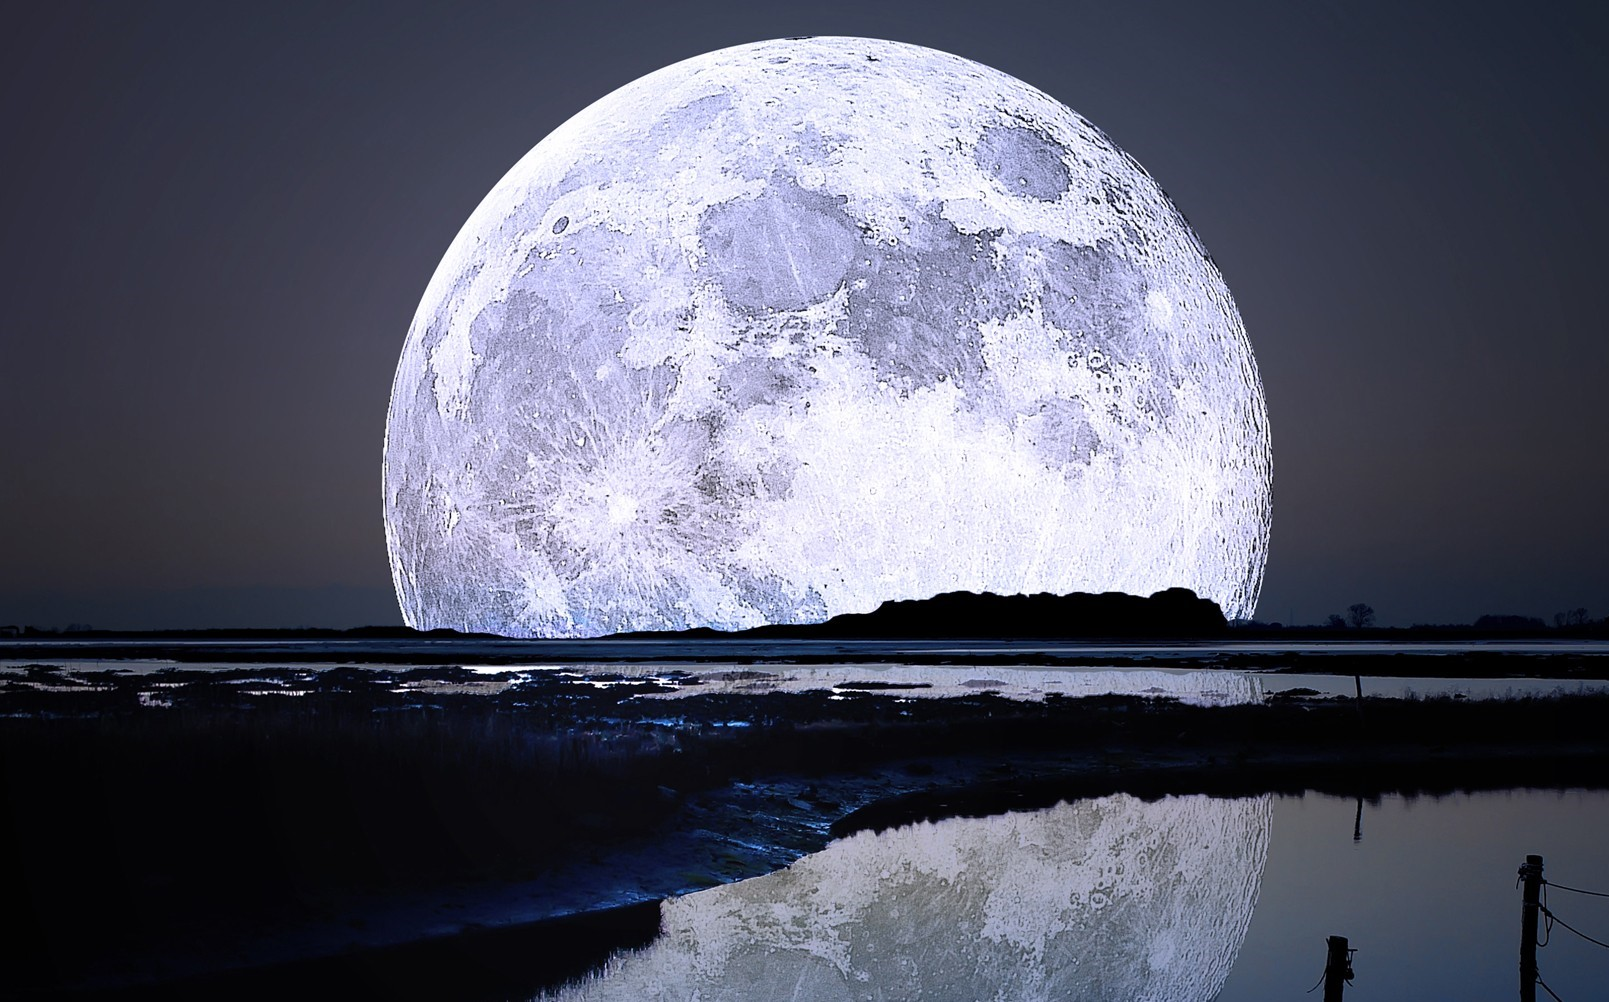
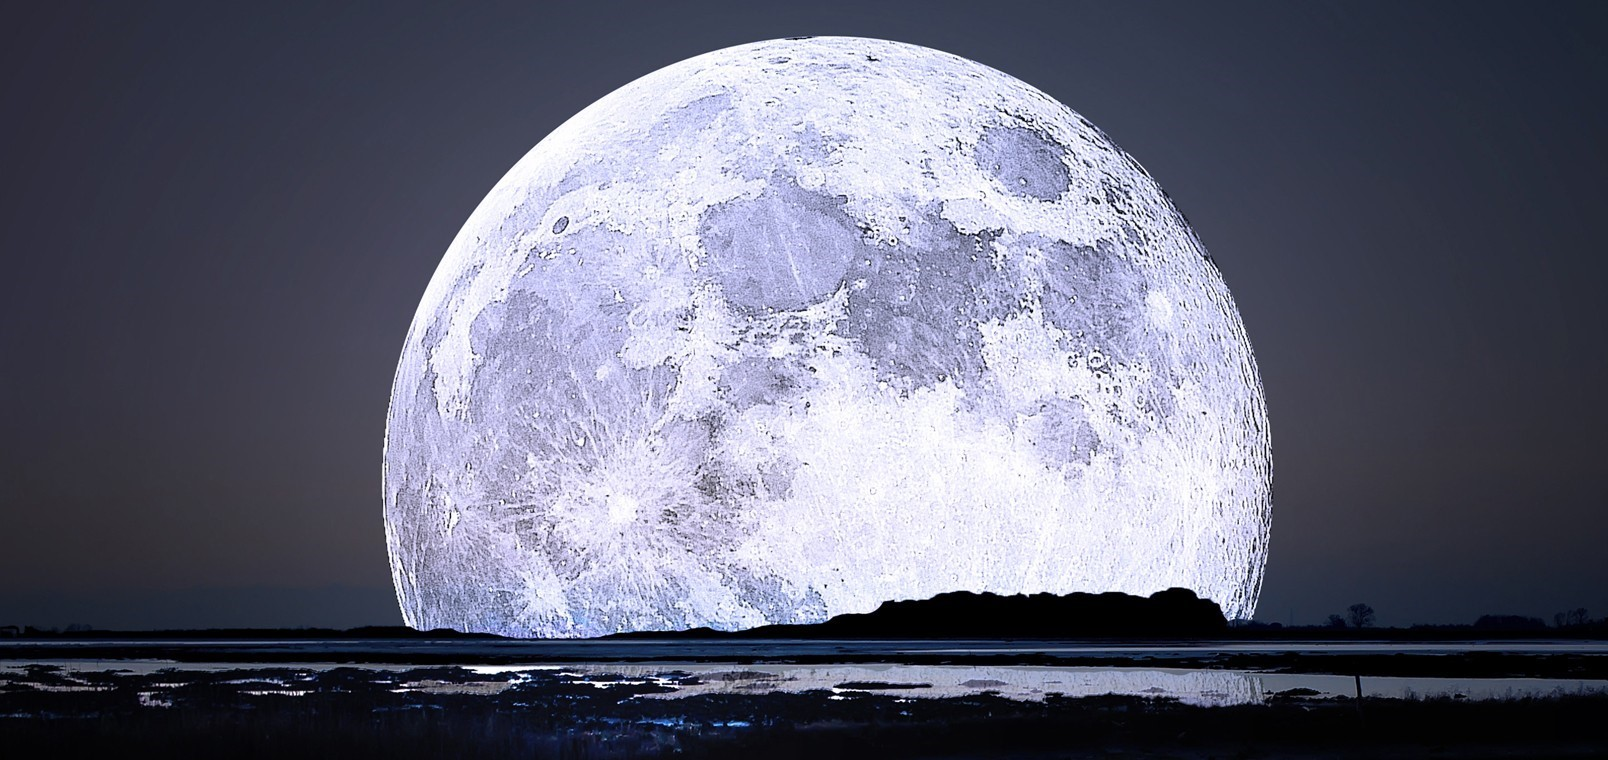
centrage

diff --git a/css/themes/white-grey.css b/css/themes/white-grey.css
@@ -3,6 +3,8 @@
 main {
 	background-image: url(Ciel.jpg);
 	color: #1E1E1E;
+	background-size:cover;
+	background-position: center;
 }
 
 .icons-social a {
